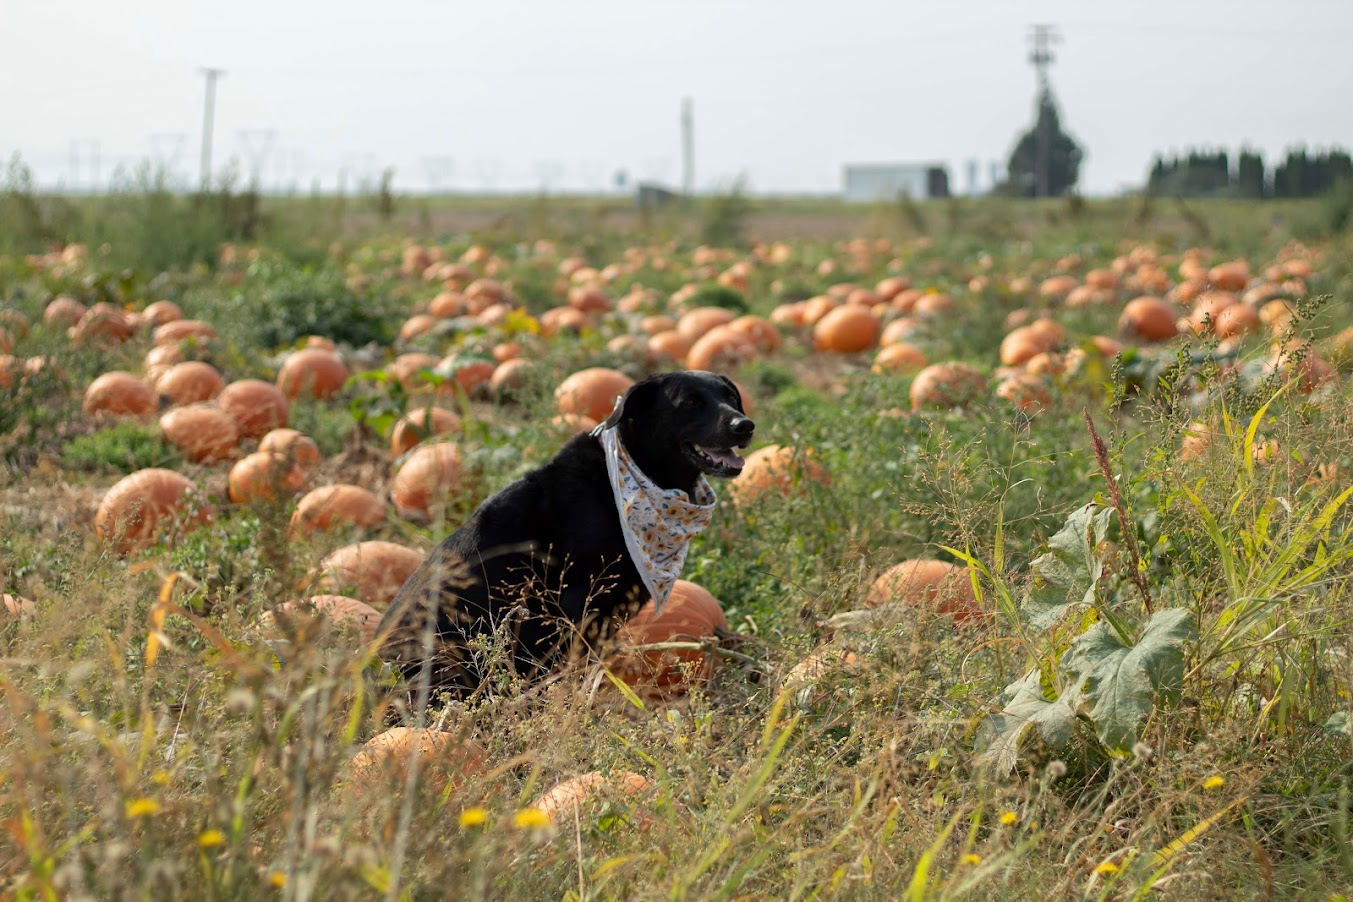
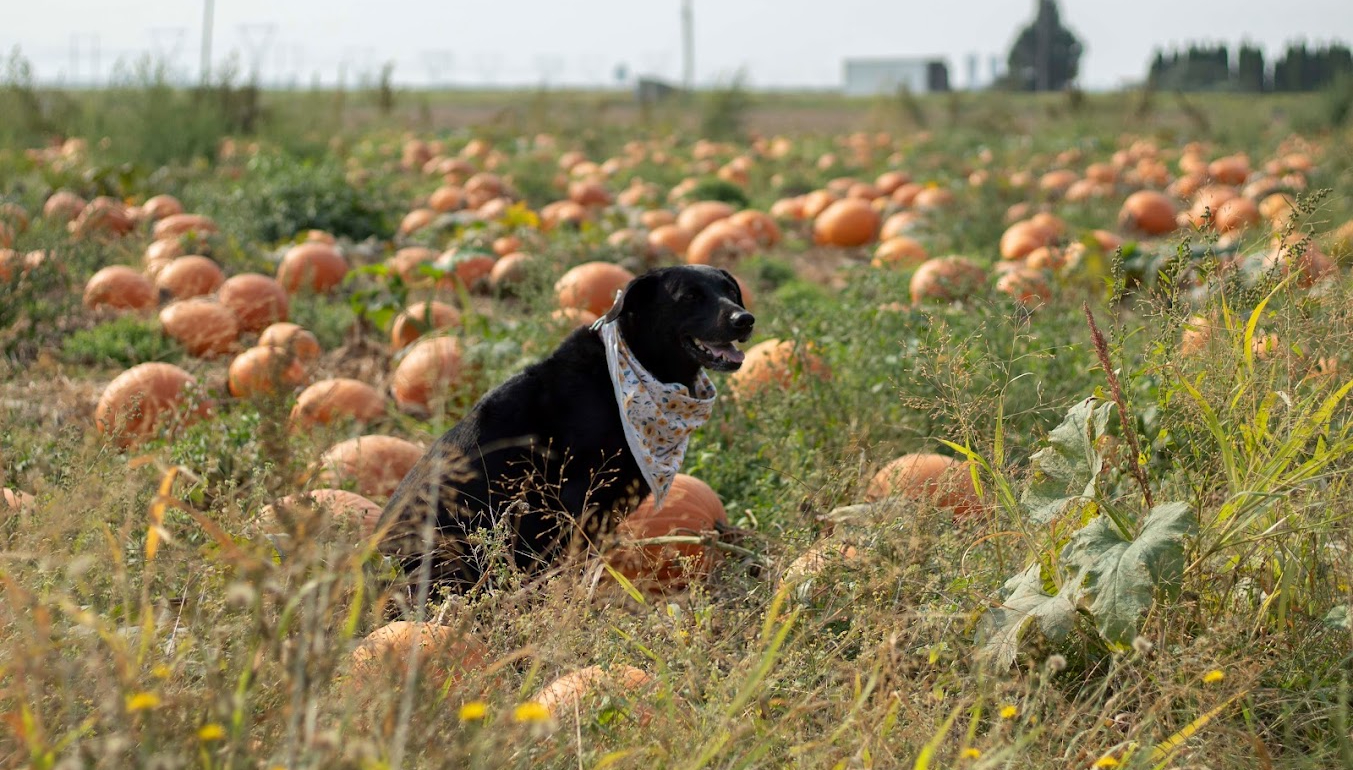
Only thing left to do in the header is to make the sign up botton correct

diff --git a/Landing Page/index.html b/Landing Page/index.html
@@ -27,9 +27,7 @@
 					<p>The typical dog needs to be groomed every 3-weeks before problems occur. We deliver next-day service to ensure your dog gets the groom they need, when they need it.</p>
 					<div class="button">Sign up</div>
 				</div>
-				<div class="right">
-					<img src="luna-pumpkins.jpg" alt="Image of Luna">
-				</div>
+				<img src="luna-pumpkins.jpg" alt="Image of Luna" class="luna-pumpkins">
 			</div>
 		</div>
 

diff --git a/Landing Page/style.css b/Landing Page/style.css
@@ -44,6 +44,21 @@ body {
     height: auto;
   }
 
+  .header .bottom {
+    display: flex;
+    align-items: center;
+    padding: 78px 0px;
+  }
+
+  .luna-pumpkins {
+    width: 720px;
+    height: auto;
+  }
+
+  .header .bottom .left {
+    padding-right: 48px;
+  }
+
   .footer {
     background-color: #1F2937;
   }
